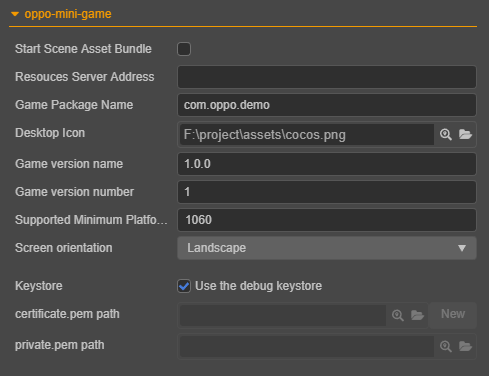
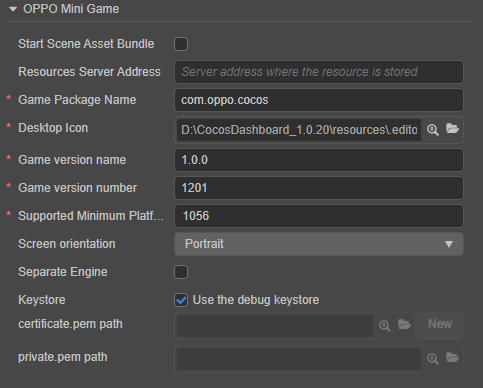
oppo build: seperate engine

diff --git a/zh/editor/publish/publish-oppo-mini-game.md b/zh/editor/publish/publish-oppo-mini-game.md
@@ -26,6 +26,7 @@
 | **游戏版本号** | 必填项 | **游戏版本号** 与 **游戏版本名称** 不同，**游戏版本号** 主要用于区别版本更新。每次提交审核时游戏版本号都要比上次提交审核的值至少 +1，一定不能等于或者小于上次提交审核的值，建议每次提交审核时游戏版本号递归 +1。<br>**注意**：**游戏版本号** 必须为正整数。 | `versionCode` |
 | **支持的最小平台版本号** | 必填项 | 推荐使用 **1060**。该项用于兼容性检查，避免游戏上线后在低版本平台运行不兼容。具体内容可点击 [使用说明](https://cdofs.oppomobile.com/cdo-activity/static/201810/26/quickgame/documentation/#/games/use) 查看。 | `minPlatformVersion` |
 | **屏幕方向** | 必填项 | 设备方向，可选值包括 `landscape` 和 `portrait`。构建时会写入到发布包目录下的 `manifest.json` 中。| `deviceOrientation` |
+| **分离引擎** | 可选项 | 该功能是通过共享全局引擎，来减少每个小游戏的首包大小。启用后，如果引擎在手机中已有缓存，首包下载时将会自动剔除引擎文件。如果手机中没有缓存，将会加载完整首包，完整首包内会包含剔除后的引擎 | `separateEngine` |
 | **密钥库** | - | 若勾选该项，表示构建 rpk 包时默认使用的是 Creator 自带的证书，仅用于 **调试** 时使用。若 rpk 包要用于提交审核，则构建时不要勾选该项。<br> 若不勾选该项，则需要手动配置签名证书。| `useDebugKey` |
 | **certificate.pem 路径**<br>**private.pem 路径** | - | 如果不勾选 **密钥库**，则需要配置签名文件 **certificate.pem 路径** 和 **private.pem 路径**，此时构建后生成的是可以 **直接发布** 的 rpk 包。开发者可通过输入框右边的放大镜图标按钮来配置两个签名文件，或者也可以参考下方的 **生成签名文件**。<br>**注意**：这两个签名文件建议不要放在发布包 `build/oppo-mini-game` 目录下，否则每次构建时都会清空该目录，导致文件丢失。 | `privatePemPath`、`certificatePemPath` |
 

diff --git a/en/editor/publish/publish-oppo-mini-game.md b/en/editor/publish/publish-oppo-mini-game.md
@@ -49,6 +49,10 @@ For the general build options for each platform, please refer to [General Build 
 
 - **Supported Minimum Platform Version Number**: is required. According to the requirements for OPPO Mini Games, this value must be greater than or equal to **1031**, and **1060** is recommended. Refer to the [Instructions [cn]](https://cdofs.oppomobile.com/cdo-activity/static/201810/26/quickgame/documentation/#/games/use) for details.
 
+- **Screen Orientation**: The screen orientation currently includes **Portrait** and **Landscape**.
+
+- **Seperate Engine**: This feacture reduces the size of the first package for each mini-game by sharing the global engine. When enabled, if the engine already has a cache in the phone, the first pacakge download will automatically remove the gine file and load the full version of the engine cached in the phone. If there is no cache in the phone, the full first package will be loaded, and the complete first package will contain the culled engine.
+
 - **Keystore**: when you check the **Keystore**, the default is to build the rpk package with a certificate that comes with Creator, which is used only for **debugging**.
 
   > **Note**: when the rpk package is to be used to submit an audit, do not check the **Keystore** to build it.
